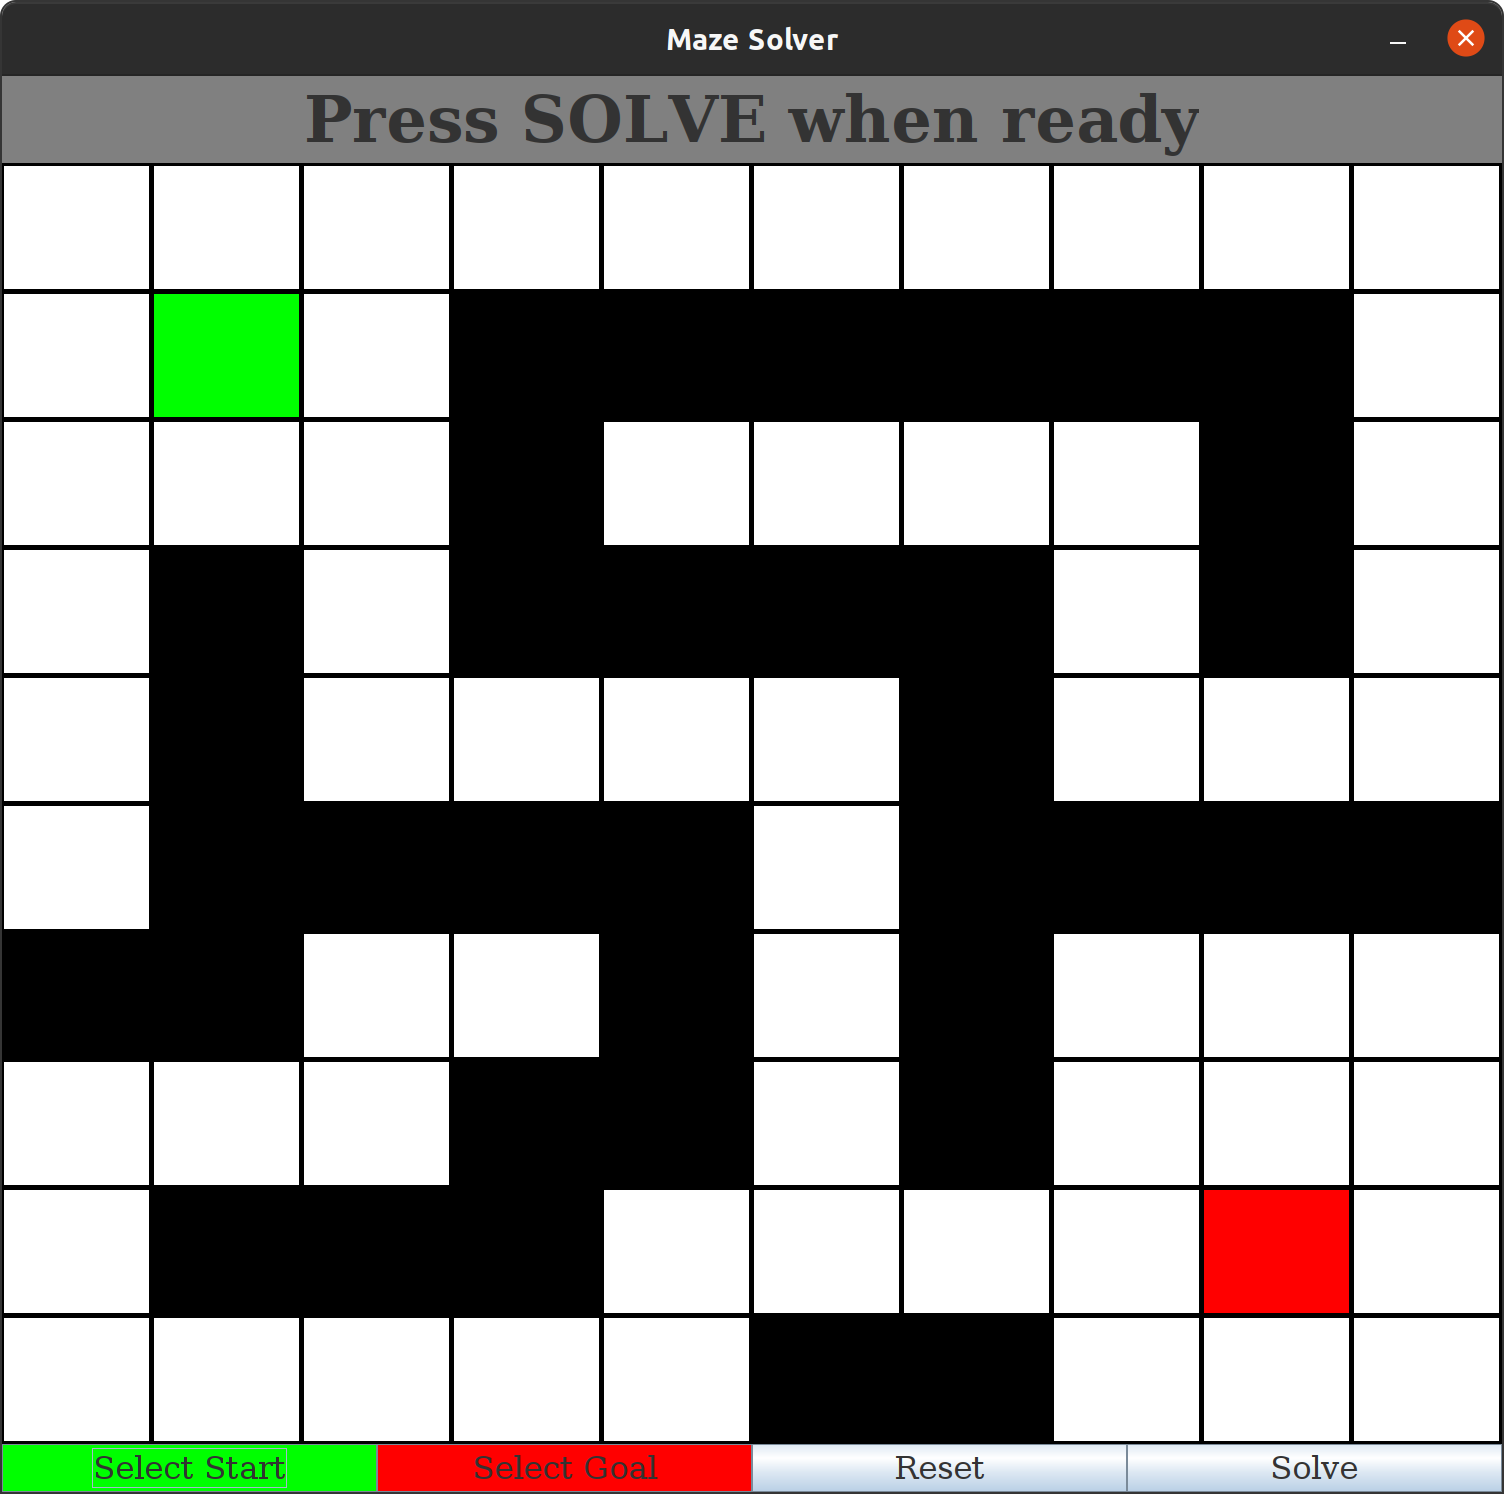
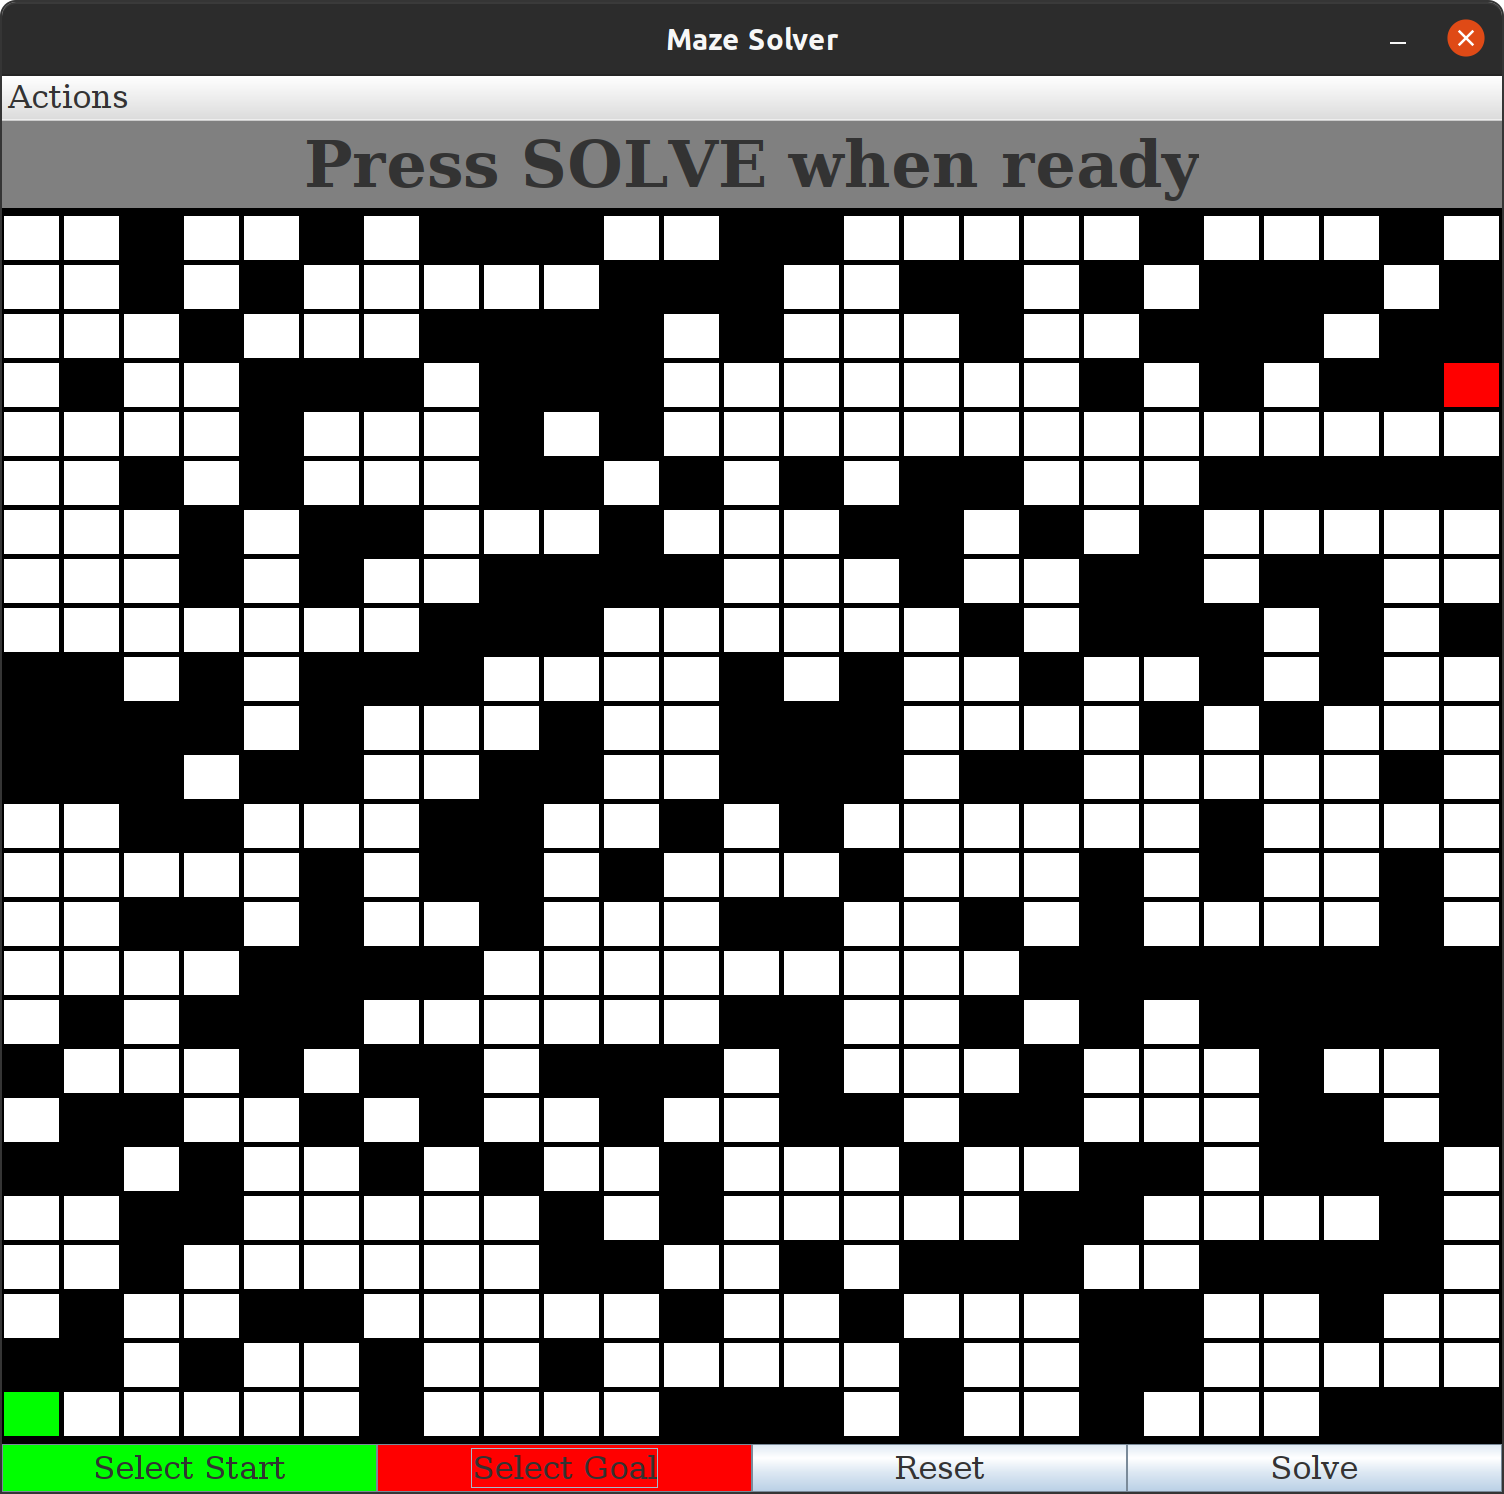
Updated screenshots

diff --git a/src/MyWindow.java b/src/MyWindow.java
@@ -9,7 +9,7 @@ public class MyWindow extends JFrame {
 	private static final Font FONT1 = new Font("Serif", Font.BOLD, 64);
 	private static final Font FONT2 = new Font("Serif", Font.PLAIN, 32);
 	private static final Dimension DIMENSION = new Dimension(1500, 1500);
-	private static final Point CELLS = new Point(10, 10);	// Rows, Columns
+	private static final Point CELLS = new Point(50, 50);	// Rows, Columns
 	private static final Point GAPS = new Point(5, 5);
 	private static final Color GRID_BACKGROUND = Color.BLACK;
 	private static final Color INFO_BACKGROUND = Color.GRAY;
